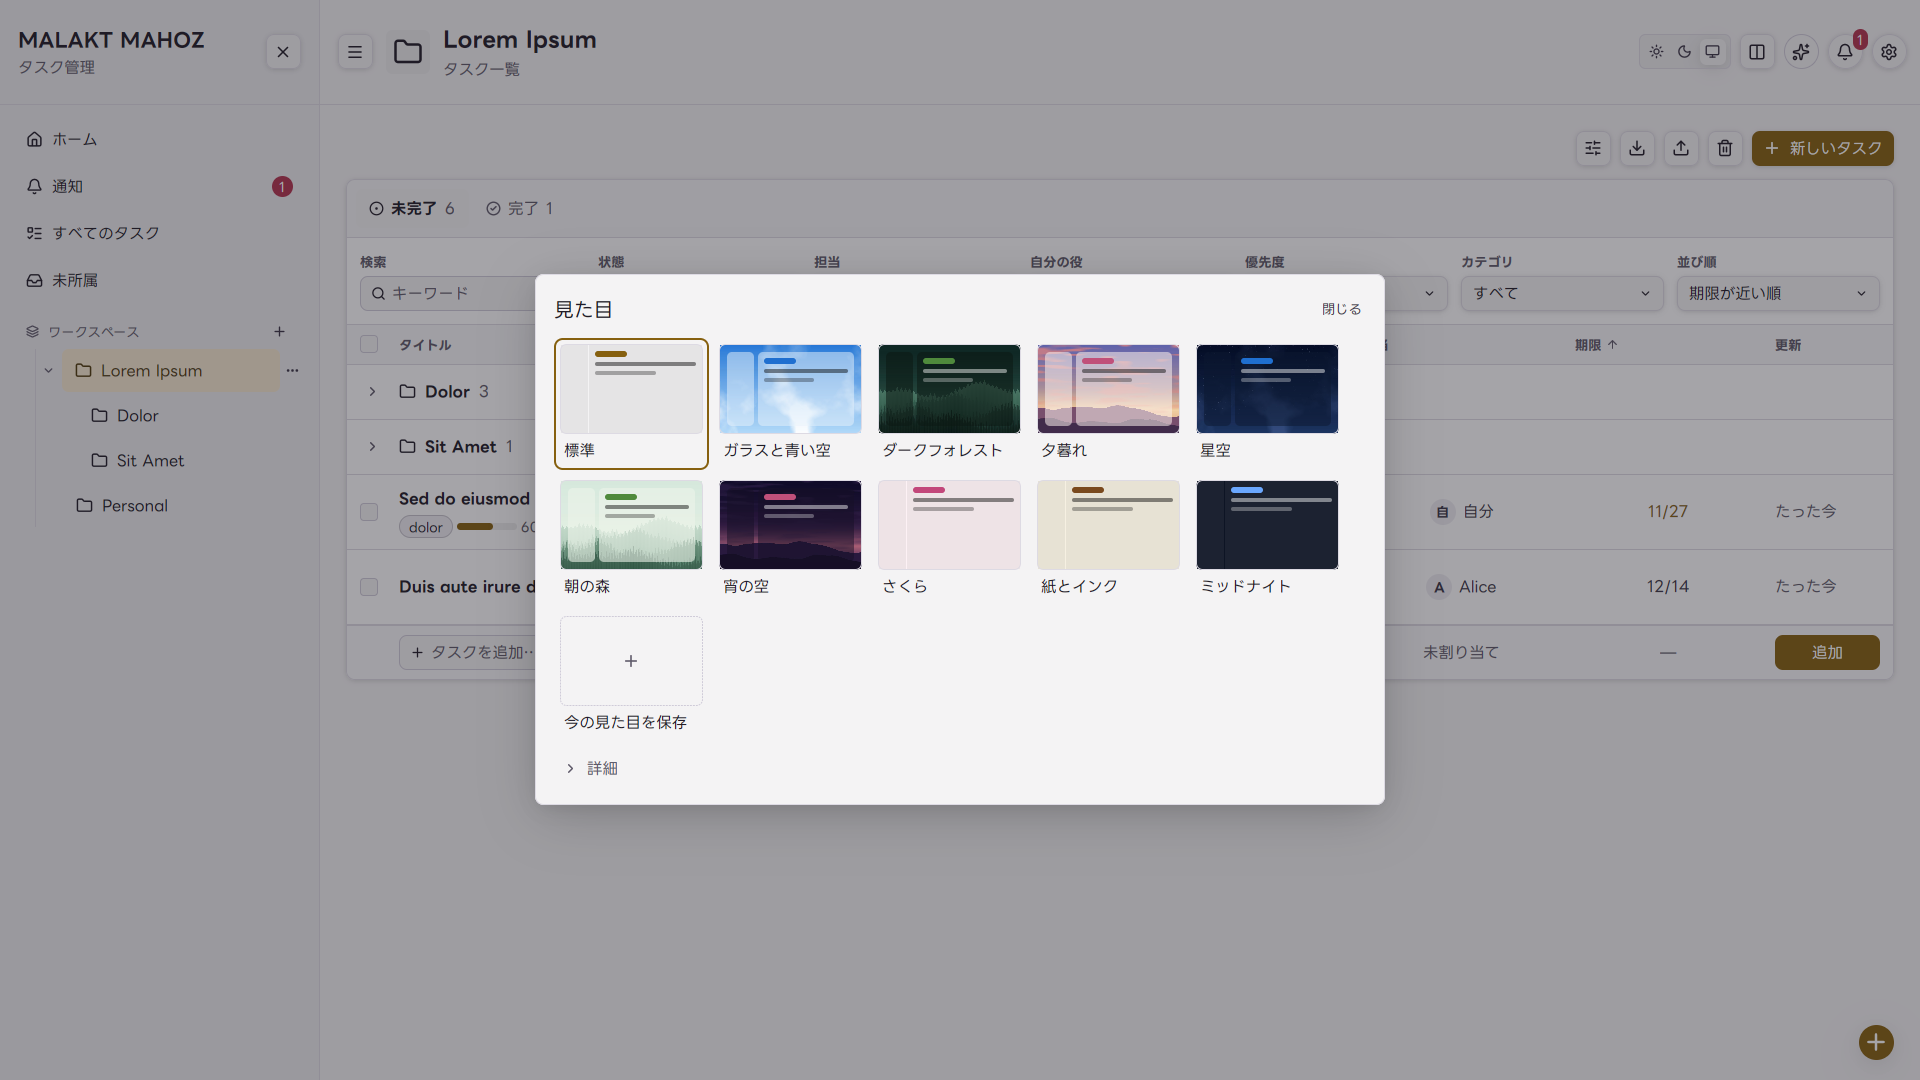
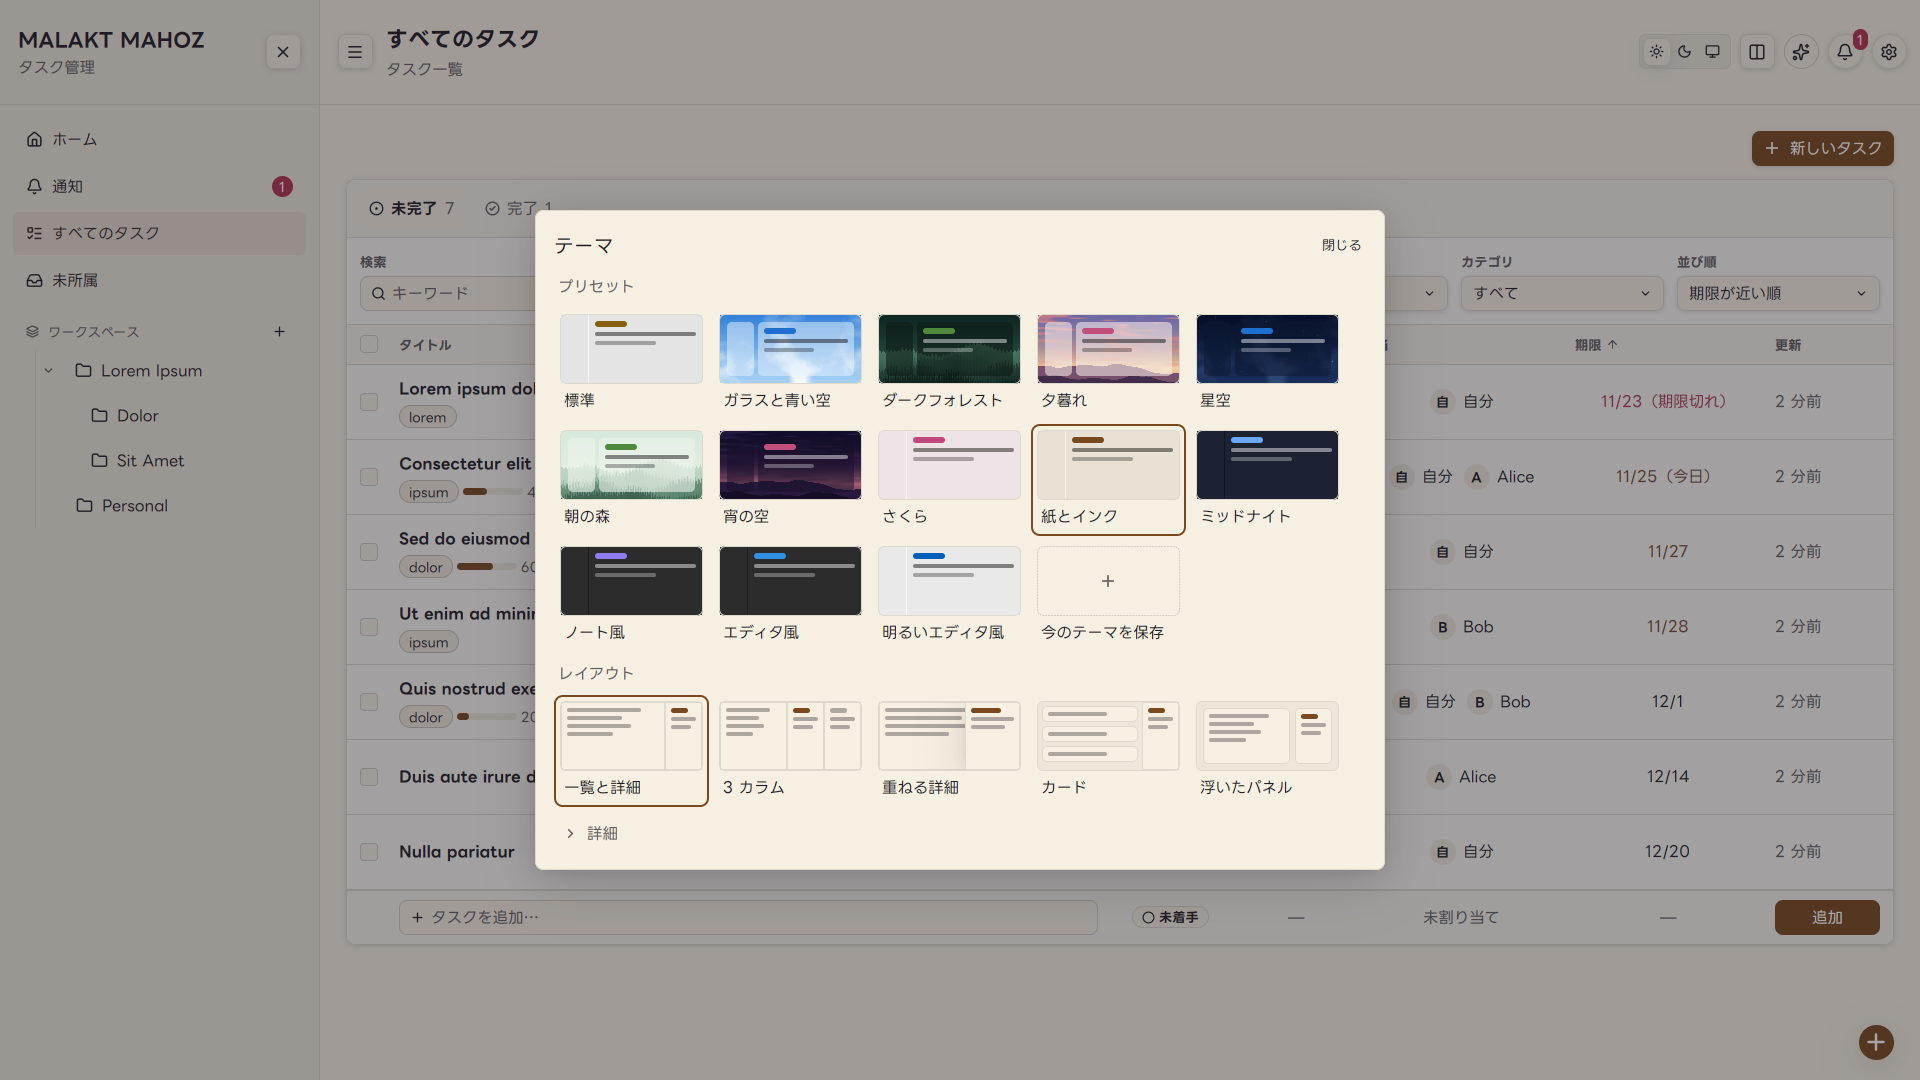
README の画面の画像を、1 枚ごとに違うテーマで撮り直す (#80)

diff --git a/README.md b/README.md
@@ -8,14 +8,16 @@
 オフラインで使うタスク管理ツールです。Rust と [gpui](https://www.gpui.rs/) で作っていて、macOS・Windows・Linux で動きます。
 
 ![タスクの一覧](docs/images/list.png)
+<sub>タスクの一覧（テーマ: ガラスと青い空）</sub>
 
 | | |
 | --- | --- |
-| ![ホーム](docs/images/home.png) | ![タスクの詳細](docs/images/detail.png) |
-| ![ペイン](docs/images/panes.png) | ![AI チャットとシェル](docs/images/ai.png) |
-| ![テーマの見本](docs/images/themes.png) | ![テーマ「ガラスと青い空」](docs/images/theme-sky.png) |
+| ![ホーム](docs/images/home.png)<br><sub>ホーム（夕暮れ）</sub> | ![タスクの詳細](docs/images/detail.png)<br><sub>タスクの詳細（ダークフォレスト）</sub> |
+| ![ペイン](docs/images/panes.png)<br><sub>ペイン（星空）</sub> | ![AI チャット](docs/images/ai.png)<br><sub>AI チャット（ノート風）</sub> |
+| ![ターミナル](docs/images/terminal.png)<br><sub>ターミナル（エディタ風）</sub> | ![すべてのタスク](docs/images/all.png)<br><sub>すべてのタスク（さくら）</sub> |
 
-![ダークモード](docs/images/dark.png)
+![テーマ](docs/images/themes.png)
+<sub>テーマの一覧（紙とインク）</sub>
 
 ## 機能
 
